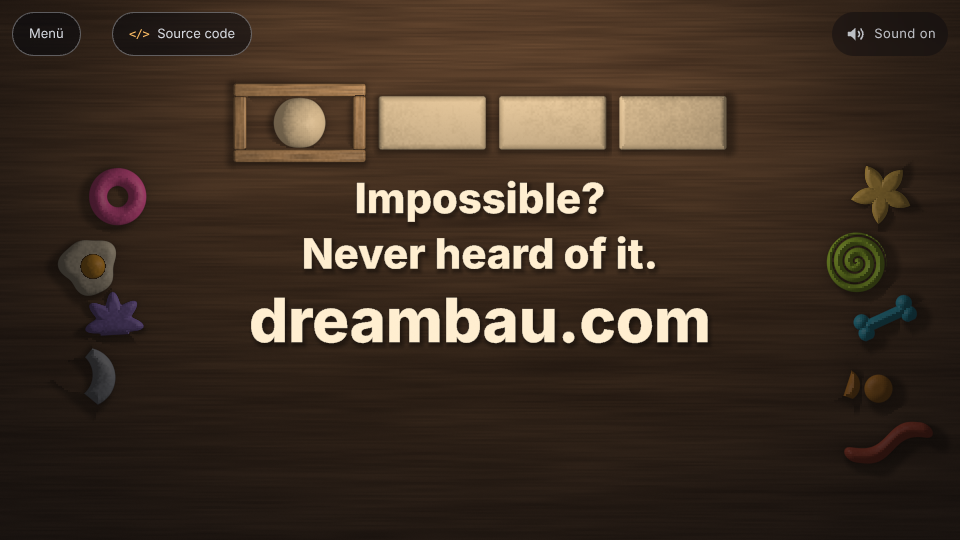
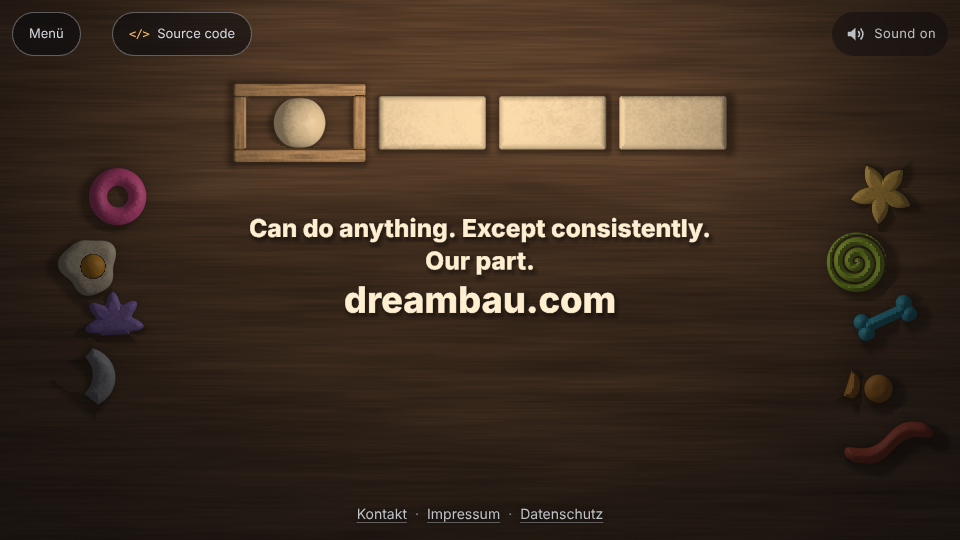
Let the end-to-end check expect a production's own claim
The accessibility check of tools/e2e.mjs looked for the shared tagline in
the page heading. A production with its own claim shows that instead, so
the check now reads the expected lines from the German language file:
the production's claim when it has one, the shared tagline otherwise.

Refresh the numbers and final frames in the Formsache report: the final
frames now show the claim, and the intro no longer lights up the table
(the review fix), which also made the picture cheaper to draw.

Claude-Session: https://claude.ai/code/session_012oHuLzAftA4anYqm9oy5ek

diff --git a/apps/landing/verification/formsache16k/REPORT.md b/apps/landing/verification/formsache16k/REPORT.md
@@ -45,7 +45,7 @@ bass, marimba, musical box, brushes, a kazoo for the wrong notes.
 * Bars of the mould: each arrives exactly on a downbeat (beats 32, 40, 48, 72) with a knock.
 * Every lump lands with a plop, every brick is laid down with a knock.
 * The three lines: beats 74, 82, 90, each on the last note of the same answer. Measured reveal: 41.5 s, 46 s, 50.5 s.
-* The lamp follows the bass (`E.x`), at most 14 % brighter. Measured: brightness against bass energy r = 0.78, lag 0 ms.
+* The lamp follows the bass (`E.x`), at most 14 % brighter. Measured: brightness against bass energy r = 0.79, lag 0 ms.
 
 ## Measured (`npm run verify -- formsache16k`, software GL)
 
@@ -53,11 +53,11 @@ bass, marimba, musical box, brushes, a kazoo for the wrong notes.
 |---|---|
 | size | 10 992 of 16 384 bytes (67 %), gzip 5 524 |
 | first frame | mean luminance 0.0 % |
-| phases | differences between snapshots 0.05, 0.07, 0.08, 0.05 |
-| flash safety | largest step in 66 ms: 2.0 % luminance |
-| text contrast, final frame | 16:9 13.0 / 13.3 / 14.8; 21:9 13.1 / 13.3 / 14.8; 4:3 13.0 / 13.3 / 14.8; portrait 13.8 / 13.8 / 14.7 |
+| phases | differences between snapshots 0.05, 0.07, 0.08, 0.04 |
+| flash safety | largest step in 66 ms: 1.0 % luminance |
+| text contrast, final frame | 16:9 13.4 / 13.3 / 14.3; 21:9 13.4 / 13.3 / 14.3; 4:3 13.4 / 13.3 / 14.3; portrait 13.5 / 13.4 / 14.2 |
 | bottom band, final frame | 0.6 to 0.8 % luminance |
-| picture cost at 640x360 | mean 108 ms, worst 162 ms |
+| picture cost at 640x360 | mean 74 ms, worst 98 ms |
 | music | peak -0.9 dBFS, RMS -23.2 dBFS, estimated tempo 108 BPM, no clipping, first second above -55 dBFS is second 2 (-40.9), silent from second 58 |
 | real-time behaviour (`e2e.mjs`) | all checks passed |
 | start-page build | `build:apex` and `check:apex` passed with the eight productions |
